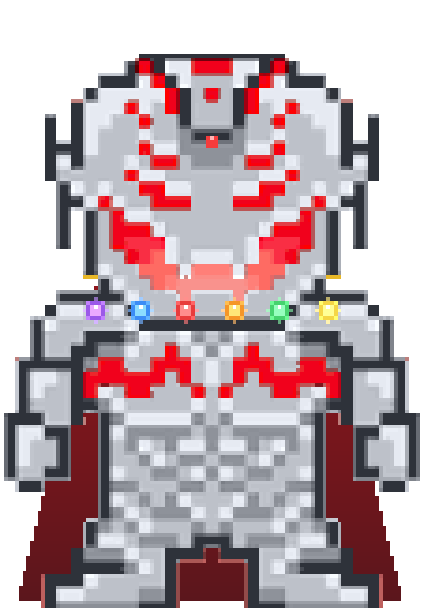
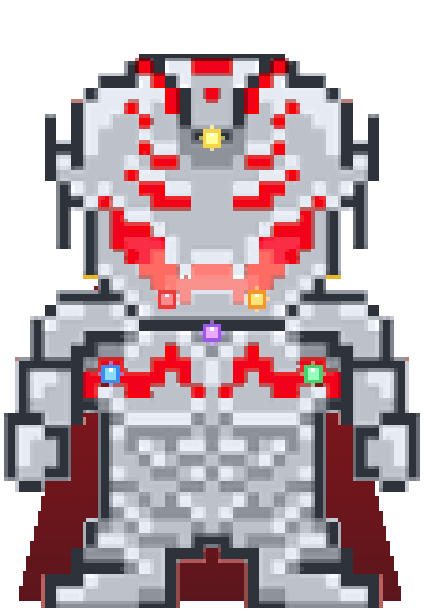
Game: stone layout, centered heartbeat, Ultron-in-tube, all-stat chassis, +5 locks, staged arc machines
- Infinity Stones re-laid-out on Ultron: Mind stone on the forehead, a pair + a
  centre core on the chest, and one set into each hand (body-masked so none float).
- Heartbeat glow moved back to dead-centre of the chest.
- The body in the power tube is now Ultron's OWN sprite -> looks exactly like him
  (cape, stones and all); gold-lit + brightened once the Prime chassis is forged.
- Upgraded Ultron Prime chassis now boosts ALL stats (combat, income, production),
  not just combat; harder to unlock (costs 15/40/80/140 arc reactors) and forged in
  the Arc Reactor Lab, which sits near the prestige tab in progression.
- +5 levels added to every level-locked floor (tuned-up gating); core rooms
  (progression, foundry, codex) stay available from the start.
- Arc Reactor machines are now three-stage: reach the machine's level -> BUY/build it
  (bits) -> then upgrade Speed/Amount. Each machine has its own unlock level
  (40/42/44/46/48) and build cost; produces nothing until built.

Verified live: tube shows Ultron, stones on forehead/chest/hands, heartbeat centred,
machine states LOCKED->BUY->UPGRADE across levels, all-stat chassis, 0 console errors.

diff --git a/ultron-dashboard.html b/ultron-dashboard.html
@@ -1073,6 +1073,8 @@
   .arc-cls{ font-family:var(--font-mono); font-size:10px; text-transform:uppercase; letter-spacing:.08em; color:#8fb0d8; margin:12px 0 6px; border-left:2px solid #3a4c66; padding-left:7px; }
   .arc-machines{ display:grid; grid-template-columns:repeat(auto-fill,minmax(150px,1fr)); gap:8px; }
   .arc-mach{ border:1px solid var(--ac); border-radius:8px; background:linear-gradient(180deg,rgba(255,255,255,.03),rgba(0,0,0,.15)); padding:8px 9px; box-shadow:0 0 12px -6px var(--ac); }
+  .arc-mach.arc-mach-off{ opacity:.72; border-style:dashed; }
+  .arc-locked{ font-family:var(--font-mono); font-size:11px; color:#ff9db0; font-weight:400; }
   .arc-mn{ font-family:var(--font-display); font-weight:700; font-size:11.5px; color:var(--text); }
   .arc-sym{ color:var(--ac); }
   .arc-ct{ font-family:var(--font-mono); font-size:14px; font-weight:700; color:#e8edf5; margin:2px 0 6px; }
@@ -7675,9 +7677,8 @@ function toggleReducedVisuals(el) {
   function drawUltronAlive(box, t) {
     if (!box || !box.w) return;
     var cx = box.x + box.w / 2, headY = box.y + box.h * 0.20;
-    // anatomically-correct heart: centre of the chest but tilted to the person's
-    // LEFT (their left = our right on a front-facing figure), upper-middle chest.
-    var heartX = cx + box.w * 0.10, heartY = box.y + box.h * 0.33;
+    // heartbeat glow dead-centre of Ultron's chest
+    var heartX = cx, heartY = box.y + box.h * 0.40;
     var charge = Math.max(0, Math.min(1, (foundryCfg().charge) || 0));
     ctx.save(); ctx.globalCompositeOperation = 'lighter';
     var beat = Math.pow(0.5 + 0.5 * Math.sin(t * 2.4), 2);   // sharper heartbeat throb
@@ -7920,6 +7921,26 @@ function toggleReducedVisuals(el) {
   // across reboots, so this is a lasting reward, not lost when his army falls.
   var BODY_UPGRADE_AT = 3;   // Nanite Cores needed for the first upgraded chassis (visual gate; power bonus lives in the foundry module)
   function hexRgb(h) { h = h.replace('#', ''); if (h.length === 3) h = h[0] + h[0] + h[1] + h[1] + h[2] + h[2]; var n = parseInt(h, 16); return (n >> 16) + ',' + ((n >> 8) & 255) + ',' + (n & 255); }
+  // The body suspended in Ultron's power tube = Ultron's OWN sprite, so it looks
+  // exactly like him (cape, chest stones and all). When the upgraded Ultron Prime
+  // chassis has been forged (bodyTier>0) it's lit with a gold aura. Falls back to
+  // the drawn vibranium body only until the sprite art has loaded.
+  function drawUltronInTube(cx, top, bot, t, charge) {
+    var img = IMG.ultronWalkA;
+    if (!img || !img.complete || !img.naturalWidth) { drawVibraniumBody(cx, bot, bot - top, t, charge, foundryCfg().cores || 0, 1.9); return; }
+    var upgraded = (foundryCfg().bodyTier || 0) > 0;
+    var natR = img.naturalWidth / img.naturalHeight, innerH = (bot - top) - 10, innerW = 122;
+    var dh = innerH, dw = dh * natR; if (dw > innerW) { dw = innerW; dh = dw / natR; }
+    var bob = Math.sin(t * 1.2) * 2;
+    var dx = cx - dw / 2, dy = bot - dh - 4 + bob;
+    ctx.save();
+    ctx.imageSmoothingEnabled = true; ctx.imageSmoothingQuality = 'high';
+    if (upgraded) { ctx.shadowColor = '#ffd868'; ctx.shadowBlur = 16 + 8 * charge; }   // gold aura marks the forged Ultron Prime chassis
+    ctx.globalAlpha = 0.9 + 0.1 * charge;
+    ctx.drawImage(img, dx, dy, dw, dh);
+    if (upgraded) { ctx.shadowBlur = 0; ctx.globalAlpha = 0.5 + 0.3 * charge; ctx.drawImage(img, dx, dy, dw, dh); }   // second pass brightens the gilded chassis
+    ctx.restore();
+  }
   function drawVibraniumBody(cx, bot, h, t, charge, cores, bs) {
     bs = bs || 1;   // body scale (bigger = closer to Ultron's own size)
     var sk = bodySkin((cores || 0) + 1);   // the tube holds the NEXT body
@@ -8056,7 +8077,7 @@ function toggleReducedVisuals(el) {
     }
     ctx.shadowBlur = 0; ctx.restore();
     ctx.restore();
-    drawVibraniumBody(cx, bot, h, t, charge, cores, 1.9);   // +50% -- fills the bigger tube
+    drawUltronInTube(cx, top, bot, t, charge);   // the body in the tube looks exactly like Ultron (his own sprite), gold-lit when the Prime chassis is forged
     ctx.strokeStyle = '#3a4056'; ctx.lineWidth = 2; roundRectPath(x0, top, w, h, 10); ctx.stroke();
     ctx.fillStyle = 'rgba(255,255,255,0.08)'; ctx.fillRect(x0 + 5, top + 4, 6, h - 8);
     ctx.fillStyle = M_STEEL; ctx.fillRect(x0 - 6, top - 6, w + 12, 8); ctx.fillRect(x0 - 6, bot - 2, w + 12, 6);
@@ -8837,7 +8858,7 @@ window.__sfx = (function () {
   function coreMult() { return Math.pow(1.08, (state.prestige && state.prestige.cores) || 0); }
   // Upgraded Ultron chassis -- now FORGED in the Arc Reactor Lab by spending arc
   // reactors (see arcBuildBody). Each tier is permanent (kept across reboots) and
-  // gives Ultron a lasting +20% combat-power head start.
+  // gives Ultron a lasting +20% head start on ALL stats (combat, income, production).
   function ultronBodyTier() { return (state.arc && state.arc.bodyBuilt) || 0; }
   function ultronBodyMult() { return 1 + 0.2 * ultronBodyTier(); }
   // ---- Prestige upgrade tree: each reboot mints POINTS (from the round's take)
@@ -8870,7 +8891,7 @@ window.__sfx = (function () {
   function genesisMult() { return Math.pow(3, (state.genesis && state.genesis.fired) || 0); }
   var PROD_BOOST = 1.5625;   // owner buff: +25% faster production on top of the prior 1.25 (all income routes through globalMult)
   var VALUE_BOOST = 1.15;    // owner buff: +15% more value per unit of currency
-  function globalMult() { return coreMult() * (1 + 0.05 * skillLvl('foundry') + 0.03 * skillLvl('software')) * (1 + 0.1 * tierIdx()) * milestoneMult() * incomeMult() * prestigeEcoMult() * genesisMult() * attrIncMult() * stoneIncMult() * cosmicPowerMult() * holJackpotMult() * stoneMasteryMult() * relicIncMult() * brainMult() * cryptoMult() * mechMult() * ultronUpMult() * planetGlobalMult() * agentBoost('income') * PROD_BOOST * VALUE_BOOST; }
+  function globalMult() { return coreMult() * (1 + 0.05 * skillLvl('foundry') + 0.03 * skillLvl('software')) * (1 + 0.1 * tierIdx()) * milestoneMult() * incomeMult() * prestigeEcoMult() * genesisMult() * attrIncMult() * stoneIncMult() * cosmicPowerMult() * holJackpotMult() * stoneMasteryMult() * relicIncMult() * brainMult() * cryptoMult() * mechMult() * ultronUpMult() * planetGlobalMult() * agentBoost('income') * ultronBodyMult() * PROD_BOOST * VALUE_BOOST; }
   // Skill tree, grouped into four subsystems that mirror the Gather -> Process
   // -> Build -> Fight loop. Every skill feeds a REAL multiplier already in the
   // game (income, ore rate, smelt yield, ingot value, offline, combat power),
@@ -8891,7 +8912,7 @@ window.__sfx = (function () {
   function pct(l, per) { return 1 + (per / 100) * skillLvl(l); }       // additive %-boost skill
   function xmul(l, step) { return Math.pow(1 + step, skillLvl(l)); }   // compounding × skill
   function xpGainMult() { return pct('xpboost', 5) * xmul('xpmult', 0.03) * attrXpMult() * stoneXpMult() * stoneMasteryMult() * relicXpMult() * brainMult() * agentBoost('xp'); }   // + INT + Mind stone + mastery + relics + brain cognition + subagents
-  function prodQtyMult() { return pct('prodqty', 4) * xmul('prodqtym', 0.03) * prestigeProdMult() * stoneProdMult() * stoneMasteryMult(); }
+  function prodQtyMult() { return pct('prodqty', 4) * xmul('prodqtym', 0.03) * prestigeProdMult() * stoneProdMult() * stoneMasteryMult() * ultronBodyMult(); }
   function prodQualMult() { return pct('prodqual', 5) * xmul('prodqualm', 0.025); }
   function incomeMult() { return pct('incboost', 4) * xmul('incmult', 0.03); }
   var SKILLS = [
@@ -9420,15 +9441,17 @@ window.__sfx = (function () {
   // each produced by its own upgradeable machine. An Iron Man armour recycler cycles
   // 15 distinct armour marks and shreds them into extra parts + materials. Arc
   // reactors are spent to forge the upgraded "Ultron Prime" chassis.
+  // Each machine unlocks in stages: reach its level (req) -> buy the machine (buy, in
+  // bits) -> then upgrade Speed/Amount. It produces nothing until purchased.
   var ARC_PARTS = [
-    { id: 'pd',     name: 'Palladium Core',      sym: '⬡', col: '#c9cdd6', base: 0.055, desc: 'Pd-107 cold-fusion catalyst core' },
-    { id: 'ring',   name: 'Containment Ring',    sym: '◯', col: '#7fd0ff', base: 0.05,  desc: 'toroidal ring the ionized plasma circulates in' },
-    { id: 'coil',   name: 'Superconductor Coil', sym: '§', col: '#ffb45a', base: 0.05,  desc: 'electromagnet coils that ignite and confine the arc' },
-    { id: 'plasma', name: 'Deuterium Cell',      sym: '✦', col: '#8fe6b4', base: 0.055, desc: 'hydrogen-isotope fusion fuel' },
-    { id: 'stark',  name: 'Starkium Element',    sym: '★', col: '#c07bff', base: 0.022, desc: 'the synthesized new element that replaces poisonous palladium' },
+    { id: 'pd',     name: 'Palladium Core',      sym: '⬡', col: '#c9cdd6', base: 0.055, req: 40, buy: 2.5e7, desc: 'Pd-107 cold-fusion catalyst core' },
+    { id: 'ring',   name: 'Containment Ring',    sym: '◯', col: '#7fd0ff', base: 0.05,  req: 42, buy: 6e7,   desc: 'toroidal ring the ionized plasma circulates in' },
+    { id: 'coil',   name: 'Superconductor Coil', sym: '§', col: '#ffb45a', base: 0.05,  req: 44, buy: 1.4e8, desc: 'electromagnet coils that ignite and confine the arc' },
+    { id: 'plasma', name: 'Deuterium Cell',      sym: '✦', col: '#8fe6b4', base: 0.055, req: 46, buy: 3e8,   desc: 'hydrogen-isotope fusion fuel' },
+    { id: 'stark',  name: 'Starkium Element',    sym: '★', col: '#c07bff', base: 0.022, req: 48, buy: 7e8,   desc: 'the synthesized new element that replaces poisonous palladium' },
   ];
   var ARC_RECIPE = { pd: 4, ring: 3, coil: 3, plasma: 5, stark: 1 };   // core parts consumed per arc reactor
-  var ARC_BODY_COST = [8, 20, 45, 90];   // arc reactors to forge each Ultron Prime chassis tier (then scales up)
+  var ARC_BODY_COST = [15, 40, 80, 140];   // arc reactors to forge each Ultron Prime chassis tier (hard; then scales up)
   // 15 Iron Man armour marks the recycler cycles through -- each a visibly distinct colour set
   var ARMOR_MARKS = [
     { n: 'Mark I',            a: '#7f858e', b: '#4c515a' },   // raw grey
@@ -9451,7 +9474,7 @@ window.__sfx = (function () {
     if (!state.arc) state.arc = {};
     var a = state.arc;
     if (!a.parts) a.parts = {}; if (!a.mach) a.mach = {};
-    ARC_PARTS.forEach(function (p) { if (a.parts[p.id] == null) a.parts[p.id] = 0; if (!a.mach[p.id]) a.mach[p.id] = { spd: 0, amt: 0 }; });
+    ARC_PARTS.forEach(function (p) { if (a.parts[p.id] == null) a.parts[p.id] = 0; if (!a.mach[p.id]) a.mach[p.id] = { spd: 0, amt: 0, owned: false }; });
     if (a.reactors == null) a.reactors = 0;
     if (a.bodyBuilt == null) a.bodyBuilt = 0;
     if (!a.rec) a.rec = { spd: 0, yield: 0, mark: 0, prog: 0 };
@@ -9459,7 +9482,9 @@ window.__sfx = (function () {
   }
   function arcUnlocked() { return playerLevel() >= 35; }
   function arcPart(id) { for (var i = 0; i < ARC_PARTS.length; i++) if (ARC_PARTS[i].id === id) return ARC_PARTS[i]; }
-  function arcMachRate(pid) { var a = arcInit(); return arcPart(pid).base * (1 + 0.5 * a.mach[pid].spd) * (1 + 0.5 * a.mach[pid].amt); }   // parts/sec (speed x amount)
+  function arcMachRate(pid) { var a = arcInit(); if (!a.mach[pid].owned) return 0; return arcPart(pid).base * (1 + 0.5 * a.mach[pid].spd) * (1 + 0.5 * a.mach[pid].amt); }   // parts/sec (0 until the machine is purchased)
+  function arcMachOwned(pid) { return !!arcInit().mach[pid].owned; }
+  function arcBuyMachine(pid) { var a = arcInit(), p = arcPart(pid); if (playerLevel() < p.req) { gamePop('🔒 Unlocks at level ' + p.req, '#8fb0d8'); return; } if (a.mach[pid].owned) return; if (state.bits < p.buy) { gamePop('Need ' + fmt(p.buy) + ' to build the machine', '#ff8098'); return; } state.bits -= p.buy; a.mach[pid].owned = true; if (window.__sfx) window.__sfx('unlock'); gamePop('🏭 ' + p.name + ' machine built', p.col); addXp(80, 'Built the ' + p.name + ' machine'); dirty = true; save(); renderArcReactor(); renderBalance(); }
   function arcUpCost(pid, kind) { var lvl = arcInit().mach[pid][kind]; return Math.ceil((kind === 'spd' ? 5e7 : 8e7) * Math.pow(1.85, lvl)); }
   function arcRecCost(kind) { var lvl = arcInit().rec[kind]; return Math.ceil((kind === 'spd' ? 8e7 : 1.2e8) * Math.pow(1.85, lvl)); }
   function arcBodyCost() { var t = arcInit().bodyBuilt, i = Math.min(t, ARC_BODY_COST.length - 1); return ARC_BODY_COST[i] * (t >= ARC_BODY_COST.length ? (t - ARC_BODY_COST.length + 2) : 1); }
@@ -9485,30 +9510,37 @@ window.__sfx = (function () {
   function arcUpgrade(pid, kind) { var a = arcInit(), c = arcUpCost(pid, kind); if (state.bits < c) { gamePop('Need ' + fmt(c), '#ff8098'); return; } state.bits -= c; a.mach[pid][kind]++; if (window.__sfx) window.__sfx('upgrade'); dirty = true; save(); renderArcReactor(); renderBalance(); }
   function arcRecUpgrade(kind) { var a = arcInit(), c = arcRecCost(kind); if (state.bits < c) { gamePop('Need ' + fmt(c), '#ff8098'); return; } state.bits -= c; a.rec[kind]++; if (window.__sfx) window.__sfx('upgrade'); dirty = true; save(); renderArcReactor(); renderBalance(); }
   function arcBuildReactor() { var a = arcInit(); if (!arcCanBuild()) { gamePop('Need more core parts', '#ff8098'); return; } for (var k in ARC_RECIPE) a.parts[k] -= ARC_RECIPE[k]; a.reactors++; if (window.__sfx) window.__sfx('unlock'); gamePop('⚛ Arc Reactor assembled', '#7fd0ff'); addXp(120, 'Assembled an Arc Reactor'); publish(); dirty = true; save(); renderArcReactor(); renderBalance(); }
-  function arcBuildBody() { var a = arcInit(), c = arcBodyCost(); if (a.reactors < c) { gamePop('Need ' + c + ' arc reactors', '#ff8098'); return; } a.reactors -= c; a.bodyBuilt++; if (window.__sfx) window.__sfx('reboot'); gamePop('🤖 Ultron Prime chassis forged — tier ' + a.bodyBuilt + ' (+' + (20 * a.bodyBuilt) + '% combat)', '#ffe08a'); addXp(500, 'Forged upgraded chassis'); publish(); dirty = true; save(); renderArcReactor(); renderBalance(); }
+  function arcBuildBody() { var a = arcInit(), c = arcBodyCost(); if (a.reactors < c) { gamePop('Need ' + c + ' arc reactors', '#ff8098'); return; } a.reactors -= c; a.bodyBuilt++; if (window.__sfx) window.__sfx('reboot'); gamePop('🤖 Ultron Prime chassis forged — tier ' + a.bodyBuilt + ' (+' + (20 * a.bodyBuilt) + '% all stats)', '#ffe08a'); addXp(500, 'Forged upgraded chassis'); publish(); dirty = true; save(); renderArcReactor(); renderBalance(); }
   window.__arcTick = arcTick;
   var arcEl = document.getElementById('arcreactor');
   function renderArcReactor() {
     if (!arcEl) return;
     if (!arcUnlocked()) { arcEl.innerHTML = '<div class="arc-head">⚛ Arc Reactor Lab <span class="arc-sub">— 🔒 unlocks at level 35: forge Ultron’s arc reactors from their core parts</span></div>'; return; }
     var a = arcInit();
-    var html = '<div class="arc-head">⚛ Arc Reactor Lab <span class="arc-sub">— ' + fmtN(a.reactors) + ' arc reactor' + (a.reactors === 1 ? '' : 's') + ' built · Ultron Prime chassis tier ' + a.bodyBuilt + ' (+' + (20 * a.bodyBuilt) + '% combat)</span></div>';
+    var html = '<div class="arc-head">⚛ Arc Reactor Lab <span class="arc-sub">— ' + fmtN(a.reactors) + ' arc reactor' + (a.reactors === 1 ? '' : 's') + ' built · Ultron Prime chassis tier ' + a.bodyBuilt + ' (+' + (20 * a.bodyBuilt) + '% all stats)</span></div>';
     html += '<div class="arc-cls">Core-part machines</div><div class="arc-machines">';
     ARC_PARTS.forEach(function (p) {
-      var m = a.mach[p.id];
-      html += '<div class="arc-mach" style="--ac:' + p.col + '" title="' + esc(p.desc) + '">' +
-        '<div class="arc-mn"><span class="arc-sym">' + p.sym + '</span> ' + p.name + '</div>' +
-        '<div class="arc-ct">' + fmtN(a.parts[p.id] || 0) + ' <span class="arc-rate">+' + arcMachRate(p.id).toFixed(2) + '/s</span></div>' +
-        '<div class="arc-ups">' +
-          '<button class="arc-up' + (state.bits >= arcUpCost(p.id, 'spd') ? ' can' : '') + '" data-arcup="' + p.id + '" data-k="spd">⚡ Speed Lv' + m.spd + ' · ' + fmt(arcUpCost(p.id, 'spd')) + '</button>' +
-          '<button class="arc-up' + (state.bits >= arcUpCost(p.id, 'amt') ? ' can' : '') + '" data-arcup="' + p.id + '" data-k="amt">⬆ Amount Lv' + m.amt + ' · ' + fmt(arcUpCost(p.id, 'amt')) + '</button>' +
-        '</div></div>';
+      var m = a.mach[p.id], lvOk = playerLevel() >= p.req, owned = m.owned, body;
+      if (!lvOk) {
+        body = '<div class="arc-ct arc-locked">🔒 Unlocks at level ' + p.req + '</div>';
+      } else if (!owned) {
+        body = '<div class="arc-rate" style="margin:2px 0 6px">machine not built yet</div>' +
+          '<button class="arc-build' + (state.bits >= p.buy ? ' can' : '') + '" data-arcbuy="' + p.id + '"' + (state.bits >= p.buy ? '' : ' disabled') + '>🏭 Build machine · ' + fmt(p.buy) + '</button>';
+      } else {
+        body = '<div class="arc-ct">' + fmtN(a.parts[p.id] || 0) + ' <span class="arc-rate">+' + arcMachRate(p.id).toFixed(2) + '/s</span></div>' +
+          '<div class="arc-ups">' +
+            '<button class="arc-up' + (state.bits >= arcUpCost(p.id, 'spd') ? ' can' : '') + '" data-arcup="' + p.id + '" data-k="spd">⚡ Speed Lv' + m.spd + ' · ' + fmt(arcUpCost(p.id, 'spd')) + '</button>' +
+            '<button class="arc-up' + (state.bits >= arcUpCost(p.id, 'amt') ? ' can' : '') + '" data-arcup="' + p.id + '" data-k="amt">⬆ Amount Lv' + m.amt + ' · ' + fmt(arcUpCost(p.id, 'amt')) + '</button>' +
+          '</div>';
+      }
+      html += '<div class="arc-mach' + (owned ? '' : ' arc-mach-off') + '" style="--ac:' + p.col + '" title="' + esc(p.desc) + '">' +
+        '<div class="arc-mn"><span class="arc-sym">' + p.sym + '</span> ' + p.name + (lvOk ? '' : ' <span class="arc-rate">Lv ' + p.req + '</span>') + '</div>' + body + '</div>';
     });
     html += '</div>';
     var recipe = Object.keys(ARC_RECIPE).map(function (k) { var have = a.parts[k] || 0; return '<span class="arc-req' + (have >= ARC_RECIPE[k] ? ' ok' : '') + '">' + arcPart(k).sym + ' ' + fmtN(have) + '/' + ARC_RECIPE[k] + '</span>'; }).join('');
     html += '<div class="arc-cls">Assembly &amp; chassis</div><div class="arc-build-row">' +
       '<div class="arc-panel"><div class="arc-mn">🔧 Assemble Arc Reactor</div><div class="arc-recipe">' + recipe + '</div><button class="arc-build' + (arcCanBuild() ? ' can' : '') + '" id="arc-build"' + (arcCanBuild() ? '' : ' disabled') + '>⚛ Build reactor</button></div>' +
-      '<div class="arc-panel"><div class="arc-mn">🤖 Ultron Prime Chassis</div><div class="arc-recipe"><span class="arc-req">tier ' + a.bodyBuilt + '</span><span class="arc-req">+' + (20 * a.bodyBuilt) + '% combat</span></div><button class="arc-build' + (a.reactors >= arcBodyCost() ? ' can' : '') + '" id="arc-body-build"' + (a.reactors >= arcBodyCost() ? '' : ' disabled') + '>Forge chassis · ' + arcBodyCost() + ' ⚛</button></div>' +
+      '<div class="arc-panel"><div class="arc-mn">🤖 Ultron Prime Chassis</div><div class="arc-recipe"><span class="arc-req">tier ' + a.bodyBuilt + '</span><span class="arc-req">+' + (20 * a.bodyBuilt) + '% all stats</span></div><button class="arc-build' + (a.reactors >= arcBodyCost() ? ' can' : '') + '" id="arc-body-build"' + (a.reactors >= arcBodyCost() ? '' : ' disabled') + '>Forge chassis · ' + arcBodyCost() + ' ⚛</button></div>' +
       '</div>';
     var mk = ARMOR_MARKS[a.rec.mark % ARMOR_MARKS.length];
     html += '<div class="arc-cls">Iron Man Armor Recycler</div>' +
@@ -9516,6 +9548,7 @@ window.__sfx = (function () {
       '<div class="arc-ups"><button class="arc-up' + (state.bits >= arcRecCost('spd') ? ' can' : '') + '" data-arcrec="spd">⚡ Feed speed Lv' + a.rec.spd + ' · ' + fmt(arcRecCost('spd')) + '</button><button class="arc-up' + (state.bits >= arcRecCost('yield') ? ' can' : '') + '" data-arcrec="yield">⬆ Yield Lv' + a.rec.yield + ' · ' + fmt(arcRecCost('yield')) + '</button></div></div>';
     arcEl.innerHTML = html;
     arcEl.querySelectorAll('[data-arcup]').forEach(function (b) { b.addEventListener('click', function () { arcUpgrade(b.dataset.arcup, b.dataset.k); }); });
+    arcEl.querySelectorAll('[data-arcbuy]').forEach(function (b) { b.addEventListener('click', function () { arcBuyMachine(b.dataset.arcbuy); }); });
     arcEl.querySelectorAll('[data-arcrec]').forEach(function (b) { b.addEventListener('click', function () { arcRecUpgrade(b.dataset.arcrec); }); });
     var bd = document.getElementById('arc-build'); if (bd) bd.addEventListener('click', arcBuildReactor);
     var bb = document.getElementById('arc-body-build'); if (bb) bb.addEventListener('click', arcBuildBody);
@@ -12886,12 +12919,12 @@ window.__sfx = (function () {
   // progression tracker, then each room in the order it matters to the economy /
   // becomes available. The number is the player level the floor unlocks at.
   var PLAN = [
-    ['#dev-floor', 0], ['#progression', 1], ['#foundry', 1], ['#ultron-up', 2],
-    ['#expedition', 3], ['#foundry-generators', 4], ['#refinery', 6], ['#botparts', 8],
-    ['#armory', 10], ['#arsenal', 12], ['#agents-panel', 14], ['#relics', 16],
-    ['#xpcrystal', 18], ['#brainlab', 20], ['#cyber', 22], ['#crypto', 24],
-    ['#portal', 26], ['#stonelab', 28], ['#cosmic', 32], ['#arcreactor', 35], ['#genesis', 36],
-    ['#mechbay', 40], ['#prestige', 30], ['#holiday', 5], ['#codex', 1]
+    ['#dev-floor', 0], ['#progression', 1], ['#foundry', 1], ['#ultron-up', 7],
+    ['#expedition', 8], ['#foundry-generators', 9], ['#refinery', 11], ['#botparts', 13],
+    ['#armory', 15], ['#arsenal', 17], ['#agents-panel', 19], ['#relics', 21],
+    ['#xpcrystal', 23], ['#brainlab', 25], ['#cyber', 27], ['#crypto', 29],
+    ['#portal', 31], ['#stonelab', 33], ['#cosmic', 37], ['#arcreactor', 40], ['#genesis', 41],
+    ['#mechbay', 45], ['#prestige', 35], ['#holiday', 10], ['#codex', 1]
   ];
   function curLevel() { try { return (window.__foundry && window.__foundry.xplevel) || 1; } catch (e) { return 1; } }
   function applyLock(f) {

diff --git a/dev-tools/ultron_infinity.py b/dev-tools/ultron_infinity.py
@@ -90,30 +90,38 @@ def upgrade(fig):
                 if opaque(X, Y):
                     px[X, Y] = (c[0], c[1], c[2], 255)
 
-    # brow gem (mind stone) at head center, ~18% down
+    # ---- Infinity Stones, arranged like Ultron wears them: MIND on the forehead,
+    #      a pair (+ a lower centre core) on the chest, and one set into each hand. ----
     cx = w // 2
-    dot(cx, int(h * 0.16), (245, 60, 60), 1)
-    dot(cx, int(h * 0.16) - 1, (255, 180, 180), 0)
 
-    # six Infinity Stones set in a row across the chest (~46% down) -- the signature.
-    # Bigger + brighter so they read clearly: 5x5 gem, 3x3 bright core, white glint,
-    # and a wider colour glow ring around each (kept on the body via gem()/opaque()).
-    cy = int(h * 0.46)
-    span = int(w * 0.56)
-    x0 = cx - span // 2
-    for i, col in enumerate(STONES):
-        gx = x0 + int(i * span / 5)
-        if opaque(gx, cy) or opaque(gx, cy + 1) or opaque(gx, cy - 1):
-            bright = (min(255, col[0] + 80), min(255, col[1] + 80), min(255, col[2] + 80))
-            gem(gx, cy, col, 2)              # 5x5 gem
-            gem(gx, cy, bright, 1)           # 3x3 bright core
-            dot(gx, cy - 1, (255, 255, 255), 0)  # white top glint
-            for ox, oy in ((3, 0), (-3, 0), (0, 3), (0, -3), (2, 2), (-2, 2), (2, -2), (-2, -2)):
-                if opaque(gx + ox, cy + oy):
-                    p = px[gx + ox, cy + oy]
-                    px[gx + ox, cy + oy] = (min(255, (p[0] + col[0]) // 2 + 40),
-                                            min(255, (p[1] + col[1]) // 2 + 40),
-                                            min(255, (p[2] + col[2]) // 2 + 40), 255)
+    def setstone(x, y, col, rad=2):
+        # a bright, body-masked gem with a white glint and a colour glow ring
+        if not (opaque(x, y) or opaque(x, y + 1) or opaque(x, y - 1)):
+            return
+        bright = (min(255, col[0] + 80), min(255, col[1] + 80), min(255, col[2] + 80))
+        gem(x, y, col, rad)
+        gem(x, y, bright, max(0, rad - 1))
+        dot(x, y - 1, (255, 255, 255), 0)
+        for ox, oy in ((rad + 1, 0), (-(rad + 1), 0), (0, rad + 1), (0, -(rad + 1))):
+            if opaque(x + ox, y + oy):
+                p = px[x + ox, y + oy]
+                px[x + ox, y + oy] = (min(255, (p[0] + col[0]) // 2 + 40),
+                                      min(255, (p[1] + col[1]) // 2 + 40),
+                                      min(255, (p[2] + col[2]) // 2 + 40), 255)
+
+    MIND    = (245, 214, 70)    # yellow -- Mind stone on the brow
+    POWER   = (155, 89, 232)    # purple
+    SPACE   = (60, 140, 245)    # blue
+    REALITY = (232, 60, 60)     # red
+    SOUL    = (245, 150, 40)    # orange
+    TIME    = (70, 210, 110)    # green
+
+    setstone(cx, int(h * 0.15), MIND, 2)                              # forehead: Mind stone
+    setstone(cx - int(w * 0.11), int(h * 0.44), REALITY, 2)          # chest pair (left)
+    setstone(cx + int(w * 0.11), int(h * 0.44), SOUL, 2)             # chest pair (right)
+    setstone(cx, int(h * 0.50), POWER, 2)                            # chest lower-centre core
+    setstone(cx - int(w * 0.25), int(h * 0.58), SPACE, 2)           # left hand
+    setstone(cx + int(w * 0.25), int(h * 0.58), TIME, 2)           # right hand
 
     # gold trim on the shoulders (top corners of the torso band)
     gold = (232, 184, 40)
